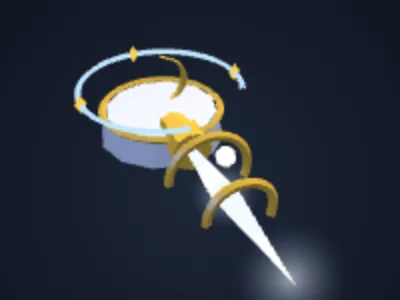
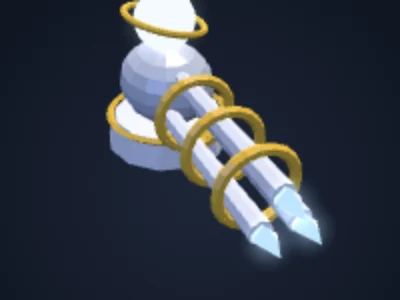
New Moonbeam (the Tide Engine), super impact explosions, punchier super sounds
- Moonbeam: three crystal barrels bound by gold rings that turn, and a full
  moon held above on a gold arm (it pulses, its ring spins). Menu cameras pull
  back for it; wiki gear pictures re-rendered.
- Every super now explodes where it lands (new sim event 'I', looks and sound
  only, mirrored in live matches): on each tank a beam hits and where it ends,
  where the Siege shell lands, around a Static Nova. Each weapon has its own:
  gold shrapnel (Pulse), electric sparks (Twin), fire and a smoke column
  (Siege), a pillar of moonlight (Moonbeam).
- Sounds: a sharp crack over a deep bass drop when a super fires, a heavy boom
  on impact (with a strong haptic); a limiter keeps stacked blasts clean.
- Held for future legendary weapons: the Lunar Railgun, Eclipse Cannon and the
  combined design, in dev/designs/ with renders.

Claude-Session: https://claude.ai/code/session_012NKinCPDFmrTEzMFfEmfiX

Changed region(s): [[0.18, 0.0, 0.84, 1.0]]

diff --git a/dev/designs/legendary-weapons.js b/dev/designs/legendary-weapons.js
@@ -1,0 +1,85 @@
+// LEGENDARY WEAPON DESIGNS ON HOLD (Oct 23, 2026), for future legendary weapons. Not loaded by the game.
+// Built with the game's own model kit (M3: kit, put, bake, meshOf, shapes), in the same units as js/models3d.js
+// weaponKit(): x forward from the turret, y up. To ship one, move its builder into weaponKit() as its own arch,
+// keep `tip` as M.tips, add anims (rings, orbs) the way the Moonbeam does, and give its super an impact (firing()).
+//  - railgun: LUNAR RAILGUN. Twin gold rails, a capacitor bank, a crescent crystal riding between the rails.
+//    Super: a white-hot beam through a row of rings; impact flash, gold blast ring, shards.
+//    Sound idea: a rising electric whine, a sharp crack, a deep bass boom.
+//  - eclipse: ECLIPSE CANNON. Armored breech, a giant eclipse ring at the muzzle (black moon disc, burning corona).
+//    Super: a thick black beam edged in light; impact a dark dome with a blue shockwave.
+//    Sound idea: a low suction hum, a beat of silence, a heavy sub-bass thud.
+//  - combo: ECLIPSE + RAILGUN + TIDE. Eclipse breech and muzzle ring, twin gold rails, three crystal barrels, the moon.
+//  - tide: the TIDE ENGINE, shipped as the Moonbeam (js/models3d.js); kept here for reference.
+// Renders: dev/designs/img/. To render again: load the game page, run this file in it, then moonShot(id,'rest'|'fire',w,h).
+// three Moonbeam prototypes built with the game's own kit, mounted on the real Lunar-skin tank
+(function(){
+const {kit,put,bake,meshOf,shapes}=M3,{B,CY,SP,CO,OC,TO}=shapes,G='#ffcf4a',P='#e6ecf5',PD='#c9d3e2',ICE='#bfe6ff',WH='#f4fbff',DK='#1a1f2b';
+const sym=f=>{f(-1);f(1);};
+function crescent(R,d){const s=new THREE.Shape();s.absarc(0,0,R,-Math.PI*0.45,Math.PI*0.45,false);s.absarc(R*0.38,0,R*0.8,Math.PI*0.37,-Math.PI*0.37,true);const g=new THREE.ExtrudeGeometry(s,{depth:d,bevelEnabled:false,curveSegments:10});g.translate(0,0,-d/2);return g;}
+// A) LUNAR RAILGUN: two massive gold-edged rails, a capacitor block, a crescent crystal riding between the rails
+function railgun(){const k=kit();
+ put(k,CY(0.5,0.56,0.26,12),P,[0,0.13,0],null,null,'shine');put(k,TO(0.53,0.035,4,24),G,[0,0.27,0],[Math.PI/2,0,0],null,'shine');
+ put(k,B(0.9,0.5,0.8),PD,[-0.15,0.5,0],null,null,'shine');for(let i=0;i<4;i++)put(k,B(0.12,0.3,0.06),ICE,[-0.42+i*0.2,0.52,0.41],null,null,'glow');
+ sym(s=>{put(k,B(2.7,0.2,0.14),P,[1.35,0.52,s*0.22],null,null,'shine');put(k,B(2.6,0.04,0.16),G,[1.35,0.64,s*0.22],null,null,'shine');put(k,B(2.5,0.05,0.03),ICE,[1.4,0.52,s*0.145],null,null,'glow');
+  put(k,B(0.35,0.3,0.1),G,[2.75,0.52,s*0.26],[0,s*0.35,0],null,'shine');});
+ for(const x of[0.6,1.3,2.0])put(k,B(0.12,0.3,0.6),PD,[x,0.52,0],null,null,'shine');
+ put(k,crescent(0.26,0.06),ICE,[1.65,0.52,0],[0,Math.PI/2,Math.PI/2],null,'glow');
+ put(k,crescent(0.3,0.06),G,[-0.15,0.92,0],[0,Math.PI/2,0],null,'shine');
+ return {k,tip:[2.95,0.52,0],len:2.95};}
+// B) ECLIPSE CANNON: a heavy armored breech with a giant eclipse ring at the muzzle (a black moon disc with a burning corona)
+function eclipse(){const k=kit();
+ put(k,CY(0.52,0.6,0.3,12),P,[0,0.15,0],null,null,'shine');put(k,TO(0.56,0.04,4,24),G,[0,0.3,0],[Math.PI/2,0,0],null,'shine');
+ put(k,B(1.1,0.62,0.9),PD,[0.05,0.62,0],null,null,'shine');sym(s=>{put(k,B(1.0,0.5,0.12),P,[0.1,0.62,s*0.5],[s*0.12,0,0],null,'shine');put(k,crescent(0.28,0.05),G,[0.05,0.66,s*0.58],[0,0,0],null,'shine');});
+ put(k,CY(0.2,0.24,1.3,14),P,[1.1,0.62,0],[0,0,Math.PI/2],null,'shine');for(let i=0;i<3;i++)put(k,TO(0.25,0.04,6,18),G,[0.75+i*0.3,0.62,0],[0,Math.PI/2,0],null,'shine');
+ put(k,TO(0.62,0.09,8,40),G,[1.85,0.62,0],[0,Math.PI/2,0],null,'shine');put(k,CY(0.56,0.56,0.06,40),DK,[1.88,0.62,0],[0,0,Math.PI/2],null,'shine');
+ put(k,TO(0.68,0.03,6,40),ICE,[1.9,0.62,0],[0,Math.PI/2,0],null,'glow');for(let i=0;i<8;i++){const a=i/8*Math.PI*2;put(k,OC(0.06),WH,[1.9,0.62+Math.cos(a)*0.78,Math.sin(a)*0.78],null,[1,2,1],'glow');}
+ return {k,tip:[1.95,0.62,0],len:2.0};}
+// C) TIDE ENGINE: three long crystal barrels in a triangle, bound by gold rings, and a full moon held above on a gold arm
+function tide(){const k=kit();
+ put(k,CY(0.5,0.58,0.28,12),P,[0,0.14,0],null,null,'shine');put(k,TO(0.54,0.035,4,24),G,[0,0.28,0],[Math.PI/2,0,0],null,'shine');
+ put(k,SP(0.42,14,10),PD,[0,0.6,0],null,[1.25,0.85,1],'shine');
+ for(let i=0;i<3;i++){const a=i/3*Math.PI*2+Math.PI/2,y=0.6+Math.sin(a)*0.18,z=Math.cos(a)*0.18;put(k,CY(0.08,0.1,2.2,8),P,[1.3,y,z],[0,0,Math.PI/2],null,'shine');put(k,OC(0.1),ICE,[2.45,y,z],null,[2.2,1,1],'glow');}
+ for(const x of[0.7,1.35,2.0])put(k,TO(0.32,0.05,6,20),G,[x,0.6,0],[0,Math.PI/2,0],null,'shine');
+ put(k,B(0.1,0.7,0.1),G,[-0.25,1.0,0],[0,0,-0.35],null,'shine');put(k,SP(0.3,16,12),WH,[0.0,1.42,0],null,null,'glow');put(k,TO(0.4,0.03,6,24),G,[0.0,1.42,0],[Math.PI/2.4,0,0],null,'shine');
+ return {k,tip:[2.65,0.6,0],len:2.7};}
+// D) COMBINED: the Eclipse breech and muzzle ring, the Railgun's twin gold rails, the Tide's three crystal barrels and its moon
+function combo(){const k=kit();
+ put(k,CY(0.52,0.6,0.3,12),P,[0,0.15,0],null,null,'shine');put(k,TO(0.56,0.04,4,24),G,[0,0.3,0],[Math.PI/2,0,0],null,'shine');
+ put(k,B(1.0,0.6,0.86),PD,[-0.1,0.62,0],null,null,'shine');for(let i=0;i<4;i++)put(k,B(0.12,0.3,0.06),ICE,[-0.42+i*0.2,0.64,0.44],null,null,'glow');
+ sym(s=>{put(k,crescent(0.28,0.05),G,[-0.1,0.66,s*0.5],null,null,'shine');put(k,B(2.2,0.18,0.12),P,[1.4,0.62,s*0.34],null,null,'shine');put(k,B(2.1,0.04,0.14),G,[1.4,0.73,s*0.34],null,null,'shine');put(k,B(2.0,0.04,0.03),ICE,[1.45,0.62,s*0.27],null,null,'glow');});
+ for(let i=0;i<3;i++){const a=i/3*Math.PI*2+Math.PI/2,y=0.62+Math.sin(a)*0.15,z=Math.cos(a)*0.15;put(k,CY(0.07,0.09,2.0,8),P,[1.35,y,z],[0,0,Math.PI/2],null,'shine');put(k,OC(0.09),ICE,[2.4,y,z],null,[1.8,1,1],'glow');}
+ for(const x of[0.75,1.35,1.95])put(k,TO(0.3,0.05,6,20),G,[x,0.62,0],[0,Math.PI/2,0],null,'shine');
+ put(k,TO(0.6,0.09,8,40),G,[2.55,0.62,0],[0,Math.PI/2,0],null,'shine');put(k,CY(0.5,0.5,0.05,40),DK,[2.58,0.62,0],[0,0,Math.PI/2],null,'shine');
+ put(k,TO(0.66,0.03,6,40),ICE,[2.6,0.62,0],[0,Math.PI/2,0],null,'glow');for(let i=0;i<8;i++){const a=i/8*Math.PI*2;put(k,OC(0.055),WH,[2.6,0.62+Math.cos(a)*0.76,Math.sin(a)*0.76],null,[1,2,1],'glow');}
+ put(k,B(0.1,0.7,0.1),G,[-0.35,1.1,0],[0,0,-0.35],null,'shine');put(k,SP(0.28,16,12),WH,[-0.1,1.5,0],null,null,'glow');put(k,TO(0.38,0.03,6,24),G,[-0.1,1.5,0],[Math.PI/2.4,0,0],null,'shine');
+ return {k,tip:[2.65,0.62,0],len:2.7};}
+const W={railgun,eclipse,tide,combo};
+// the super firing: beam to an impact point, and the impact explosion (each weapon its own)
+function firing(id,tip){const k=kit(),X=7.4,y=tip[1];
+ if(id==='railgun'){put(k,B(X-tip[0],0.08,0.08),WH,[(tip[0]+X)/2,y,0],null,null,'glow');put(k,B(X-tip[0],0.2,0.2),ICE,[(tip[0]+X)/2,y,0],null,null,'glow');
+  for(let i=0;i<5;i++)put(k,TO(0.25,0.02,4,16),ICE,[tip[0]+0.6+i*0.9,y,0],[0,Math.PI/2,0],null,'glow');}
+ if(id==='eclipse'){put(k,CY(0.32,0.38,X-tip[0],16),DK,[(tip[0]+X)/2,y,0],[0,0,Math.PI/2],null,'shine');put(k,CY(0.42,0.46,X-tip[0],16),ICE,[(tip[0]+X)/2+0.02,y,0],[0,0,Math.PI/2],[1,1,0.15],'glow');}
+ if(id==='combo'){put(k,CY(0.3,0.36,X-tip[0],16),DK,[(tip[0]+X)/2,y,0],[0,0,Math.PI/2],null,'shine');for(let i=0;i<3;i++){const a=i/3*Math.PI*2+Math.PI/2;put(k,B(X-tip[0],0.06,0.06),ICE,[(tip[0]+X)/2,y+Math.sin(a)*0.4,Math.cos(a)*0.4],null,null,'glow');}for(let i=0;i<4;i++)put(k,TO(0.45,0.025,4,20),ICE,[tip[0]+0.8+i*1.0,y,0],[0,Math.PI/2,0],null,'glow');}
+ if(id==='tide'){for(let i=0;i<3;i++){const a=i/3*Math.PI*2+Math.PI/2;put(k,B(X-tip[0],0.06,0.06),ICE,[(tip[0]+X)/2,y+Math.sin(a)*0.12,Math.cos(a)*0.12],null,null,'glow');}}
+ // impact: ground blast ring, a core flash, shards thrown out, and (eclipse) a dark dome; (tide) a rising pillar
+ const gy=-0.85;put(k,TO(1.1,0.1,6,40),id==='eclipse'?'#7fa6ff':G,[X,gy+0.05,0],[Math.PI/2,0,0],null,'glow');put(k,TO(1.7,0.05,6,48),WH,[X,gy+0.04,0],[Math.PI/2,0,0],null,'glow');
+ const dk=id==='eclipse'||id==='combo';put(k,SP(dk?0.9:0.7,18,14),dk?DK:WH,[X,gy+0.5,0],null,[1,0.8,1],dk?'shine':'glow');
+ if(dk)put(k,TO(0.95,0.08,8,40),'#9fd8ff',[X,gy+0.5,0],[Math.PI/2,0,0],null,'glow');
+ for(let i=0;i<10;i++){const a=i/10*Math.PI*2;put(k,OC(0.09),i%2?G:ICE,[X+Math.cos(a)*1.3,gy+0.4+(i%3)*0.35,Math.sin(a)*1.3],null,[1,2.4,1],'glow');}
+ if(id==='tide'||id==='combo'){put(k,CY(0.3,0.5,3.2,16),ICE,[X,gy+1.6,0],null,[1,1,1],'glow');put(k,SP(0.4,14,10),WH,[X,gy+3.3,0],null,null,'glow');}
+ return k;}
+window.moonShot=(id,mode,w,h)=>{
+ const A=artR(),sp=mySpec({lunar:true,team:'#e8f4ff',paint:'stock',arch:'moon',wt:2,cls:'vanguard',ct:2}),T=buildTank(sp,A.mats);
+ while(T.tg.children.length)T.tg.remove(T.tg.children[0]);
+ const wp=W[id]();T.tg.add(meshOf(bake(wp.k),null,A.mats));
+ T.hull.rotation.y=0;T.tur.rotation.y=0;
+ const halos=[];
+ if(mode==='fire'){const f=meshOf(bake(firing(id,wp.tip)),null,A.mats);T.tg.add(f);
+  T.g.updateMatrixWorld(true);const v=new THREE.Vector3(7.4,-0.35,0);T.tg.localToWorld(v);halos.push([v.clone(),'#ffffff',6],[v.clone(),'#bfe6ff',9]);
+  const m=new THREE.Vector3(wp.tip[0],wp.tip[1],0);T.tg.localToWorld(m);halos.push([m,'#e8f4ff',3]);}
+ const c=document.createElement('canvas');c.width=w*dpr;c.height=h*dpr;const ctx=c.getContext('2d');ctx.setTransform(dpr,0,0,dpr,0,0);
+ ctx.fillStyle='#0a0e17';ctx.fillRect(0,0,w,h);
+ if(mode==='fire')artShot(ctx,w,h,T.g,{r:4.0,el:0.62,az:1.15,cx:4.1,cy:-0.2},halos);
+ else artShot(ctx,w,h,T.g,{r:1.7,el:0.4,az:0.85,cx:0.8,cy:1.15},halos);
+ return c.toDataURL('image/png');};
+})();

diff --git a/js/render3d.js b/js/render3d.js
@@ -385,6 +385,17 @@ function novaRing(g,R,w,k){const P=g.attributes.position.array,N=48;let o=0;cons
   const a=[x0,0,z0],b=[x1,0,z1],c=[x1+x1/n1*w,0,z1+z1/n1*w],d=[x0+x0/n0*w,0,z0+z0/n0*w];
   for(const v of [a,b,c,a,c,d]){P[o++]=v[0];P[o++]=v[1];P[o++]=v[2];}}
  g.attributes.position.needsUpdate=true;g.computeBoundingSphere();}
+// a super landing: a big fireball, a ground shockwave ring of sparks, and each weapon's own touch
+function impact3(x,z,w){
+ const C=(typeof IMPACT!=='undefined'&&IMPACT[w])||{r:2.4,c:'#ffb35a',c2:'#ffe08a'},lo=R3.q==='low';
+ boom3(x,z,C.r*0.9,C.c);
+ const n=lo?14:30;for(let i=0;i<n;i++){const a=i/n*6.28;emit(PSA,{x,y:0.15,z,vx:Math.cos(a)*C.r*4,vz:Math.sin(a)*C.r*4,vy:0.3,drag:2.5,life:0.45,s0:0.5,s1:0.08,c:C.c2,a:0.9});}
+ once(PSA,x,0.8,z,C.r*4.2,C.c2,1);once(PSA,x,0.5,z,C.r*6,C.c,0.6);
+ if(w==='moon')for(let i=0;i<(lo?10:24);i++)emit(PSA,{x:x+(Math.random()-0.5)*0.8,y:0.3,z:z+(Math.random()-0.5)*0.8,vy:7+Math.random()*5,drag:0.6,life:0.7+Math.random()*0.3,s0:0.9,s1:0.2,c:i%3?'#bfe6ff':'#ffffff',a:0.95});   // a pillar of moonlight
+ else if(w==='siege'&&!lo)for(let i=0;i<10;i++){const a=Math.random()*6.28,s=Math.random()*C.r;emit(PSN,{x:x+Math.cos(a)*s*0.3,y:0.6,z:z+Math.sin(a)*s*0.3,vy:1.6,vx:Math.cos(a)*s*0.4,vz:Math.sin(a)*s*0.4,drag:0.8,life:1.6,s0:0.8,s1:2.2,c:'#2a2b30',a:0.55});}   // a smoke column
+ else if(w==='twin')for(let i=0;i<(lo?8:18);i++){const a=Math.random()*6.28,s=2+Math.random()*5;emit(PSA,{x,y:0.6,z,vx:Math.cos(a)*s,vz:Math.sin(a)*s,vy:2+Math.random()*3,g:6,life:0.35,s0:0.25,s1:0.05,c:'#e2f4ff'});}   // electric sparks
+ else for(let i=0;i<(lo?8:16);i++){const a=Math.random()*6.28,s=3+Math.random()*4;emit(PSA,{x,y:0.5,z,vx:Math.cos(a)*s,vz:Math.sin(a)*s,vy:3+Math.random()*4,g:10,life:0.6,s0:0.3,s1:0.1,c:'#ffd24a'});}   // gold shrapnel
+}
 function boom3(x,z,r,c){
  const n=Math.round((R3.q==='low'?6:14)*Math.min(2.5,r));
  for(let i=0;i<n;i++){const a=Math.random()*6.28,s=(1+Math.random()*2.5)*r;emit(PSA,{x,y:0.4,z,vx:Math.cos(a)*s,vz:Math.sin(a)*s,vy:1+Math.random()*3,g:6,drag:1.5,life:0.5+Math.random()*0.4,s0:0.35,s1:0.05,c:Math.random()<0.5?c:'#ffe08a'});}
@@ -402,6 +413,7 @@ function muzzle(u,arch){
 function ev3D(a){
  if(!use3D()||!RS)return;
  const U=i=>i>=0?units[i]:null;
+ if(a[0]==='I'){impact3(a[1],a[2],a[3]);return;}
  if(a[0]==='k'){const r=U(a[1]);if(!r)return;const o=B3.units.get(r);
   if(o){const w=new THREE.Group(),mat=new THREE.MeshLambertMaterial({color:0x1a1c22,transparent:true,emissive:0x2a0c00});
    o.body.children.forEach(ch=>{if(ch.isGroup)return;const c=ch.clone();c.traverse(x=>{if(x.isMesh)x.material=mat;});w.add(c);});
@@ -473,7 +485,7 @@ function artTank(ctx,w,h,spec,parts,opt){
  T.hull.rotation.y=opt.hd===undefined?0:opt.hd;T.tur.rotation.y=opt.ta||0;
  if(opt.t!==undefined)stepAnims(T.anims,0,opt.t);
  const hal=haloList(T,parts);
- const r=spec.boss?2.2:parts===2?1.25:1.55;
+ const r=(spec.boss?2.2:parts===2?1.25:1.55)*(spec.arch==='moon'&&parts!==1?1.22:1);   // the Moonbeam (Tide Engine) is long and tall: frame it wider
  artShot(ctx,w,h,T.g,{r,el:opt.el===undefined?0.6:opt.el,az:opt.az===undefined?0.95:opt.az,cy:parts===2?0.3:0.35,z:opt.z||1},hal);
 }
 const mySpec=(o)=>{let L=null;try{L=myLoadout();}catch(e){}const lunar=save.skin==='lunar';
@@ -515,5 +527,5 @@ function heroArt(ctx,w,h,t){
  if(!AR||!AR.hero||AR.hero.k!==k){const A=artR();AR.hero={k,T:buildTank(sp,A.mats)};}
  const T=AR.hero.T;T.hull.rotation.y=0.25;T.tur.rotation.y=Math.sin(t*0.55)*0.42;stepAnims(T.anims,0.033,t);
  T.body.position.y=T.meta.bob?T.meta.bob*Math.sin(t*3):0;
- ctx.save();ctx.translate(cx-bw/2,cy-bh*0.62);artShot(ctx,bw,bh,T.g,{r:1.55,el:0.5,az:0.95,cy:0.35},haloList(T,3));ctx.restore();
+ ctx.save();ctx.translate(cx-bw/2,cy-bh*0.62);artShot(ctx,bw,bh,T.g,{r:sp.arch==='moon'?1.85:1.55,el:0.5,az:0.95,cy:sp.arch==='moon'?0.5:0.35},haloList(T,3));ctx.restore();
 }

diff --git a/js/models3d.js b/js/models3d.js
@@ -229,18 +229,19 @@ function weaponKit(arch,tier,P,team,lunar,cls){
  const k=kit(),A=[],C=palette(P,team,cls,lunar),rc=TIERC[tier],M={tips:[],halos:[]},pm=PM(C);
  const wc=WEAPONS[arch]?WEAPONS[arch].c:'#3fd0c9';
  const core=(x,y)=>{put(k,OC(0.11),C.team,[x,y,0],null,[1,1.3,1],'glow');M.halos.push([x,y,0,C.team,0.35]);};
- if(arch==='moon'){   // LEGENDARY Moonbeam: crystal spear in gold crescents, a halo, an orbiting moon
-  put(k,CY(0.44,0.5,0.24,12),'#e6ecf5',[0,0.12,0],null,null,'shine');
-  put(k,TO(0.47,0.03,4,24),GOLD,[0,0.24,0],[Math.PI/2,0,0],null,'shine');
-  put(k,CY(0.12,0.16,0.4,8),GOLD,[0.42,0.2,0],[0,0,Math.PI/2],null,'shine');
-  put(k,OC(0.2),'#f4fbff',[1.15,0.2,0],null,[4.6,0.5,0.5],'glow');
-  for(const [x,R0] of [[0.9,0.3],[1.38,0.24]])sym(s=>put(k,TO(R0,0.035,5,16,Math.PI*0.9),GOLD,[x,0.2,0],[s*0.35,Math.PI/2,0],null,'shine'));
-  put(k,crescentGeo(0.22,0.05),GOLD,[-0.1,0.42,0],[0,Math.PI/2,0],null,'shine');
-  const hr=kit();put(hr,TO(0.64,0.025,4,30,Math.PI*1.65),'#bfe6ff',[0,0,0],[Math.PI/2,0,0],null,'glow');for(let i=0;i<4;i++){const a=i/4*Math.PI*2;put(hr,OC(0.05),GOLD,[Math.cos(a)*0.64,0,Math.sin(a)*0.64],null,[1,1.6,1],'glow');}
-  A.push({k:hr,p:[0,0.42,0],axis:'y',spd:1.8});
-  const mo=kit();put(mo,SP(0.07,8,6),'#ffffff',[0,0.3,0],null,null,'glow');
-  A.push({k:mo,p:[1.15,0.2,0],axis:'x',spd:4,orb:1});
-  M.tips.push([2.05,0.2,0]);M.halos.push([2.0,0.2,0,'#e8f4ff',1.1],[1.15,0.2,0,'#e8f4ff',0.8]);
+ if(arch==='moon'){   // LEGENDARY Moonbeam, the Tide Engine: three crystal barrels bound by gold rings, a full moon held above on a gold arm
+  const P0='#e6ecf5',PD='#c9d3e2',ICE='#bfe6ff',WH='#f4fbff';
+  put(k,CY(0.5,0.58,0.28,12),P0,[0,0.14,0],null,null,'shine');put(k,TO(0.54,0.035,4,24),GOLD,[0,0.28,0],[Math.PI/2,0,0],null,'shine');
+  put(k,SP(0.42,14,10),PD,[0,0.6,0],null,[1.25,0.85,1],'shine');
+  for(let i=0;i<3;i++){const a=i/3*Math.PI*2+Math.PI/2,y=0.6+Math.sin(a)*0.18,z=Math.cos(a)*0.18;
+   put(k,CY(0.08,0.1,1.9,8),P0,[1.15,y,z],[0,0,Math.PI/2],null,'shine');put(k,OC(0.1),ICE,[2.15,y,z],null,[2.2,1,1],'glow');
+   M.tips.push([2.32,y,z]);M.halos.push([2.2,y,z,ICE,0.7]);}
+  put(k,B(0.09,0.5,0.09),GOLD,[-0.18,0.92,0],[0,0,-0.35],null,'shine');
+  // the gold rings turn slowly around the barrels; the moon above pulses and its ring spins
+  for(const x of[0.65,1.2,1.75]){const r=kit();put(r,TO(0.32,0.05,6,20),GOLD,[0,0,0],[0,Math.PI/2,0],null,'shine');for(let q=0;q<3;q++){const a=q/3*Math.PI*2;put(r,OC(0.045),ICE,[0,Math.cos(a)*0.32,Math.sin(a)*0.32],null,null,'glow');}A.push({k:r,p:[x,0.6,0],axis:'x',spd:x===1.2?-1.4:1.4});}
+  const mo=kit();put(mo,SP(0.26,16,12),WH,[0,0,0],null,null,'glow');A.push({k:mo,p:[0,1.2,0],type:'pulse',spd:2.2});
+  const mr=kit();put(mr,TO(0.36,0.03,6,24),GOLD,[0,0,0],[Math.PI/2.4,0,0],null,'shine');A.push({k:mr,p:[0,1.2,0],axis:'y',spd:1.6});
+  M.halos.push([0,1.2,0,'#e8f4ff',1.4]);
   return {k,anims:A,meta:M};
  }
  if(arch==='twin'){

diff --git a/js/fx.js b/js/fx.js
@@ -15,7 +15,10 @@ function audioInit(){
  try{
   const C=window.AudioContext||window.webkitAudioContext;if(!C)return;
   try{if(navigator.audioSession)navigator.audioSession.type='ambient';}catch(e){}   // obey the silent switch, don't stop the player's music
-  AC=new C();master=AC.createGain();master.gain.value=0.5;master.connect(AC.destination);
+  AC=new C();master=AC.createGain();master.gain.value=0.5;
+  // a limiter at the end, so stacked explosions get loud without crackling
+  let out=AC.destination;try{const L=AC.createDynamicsCompressor();L.threshold.value=-10;L.knee.value=6;L.ratio.value=12;L.attack.value=0.003;L.release.value=0.2;L.connect(AC.destination);out=L;}catch(e){}
+  master.connect(out);
  }catch(e){AC=null;}
 }
 function audioResume(){if(!save||save.sound===false)return;audioInit();if(AC&&AC.state==='suspended')AC.resume().catch(()=>{});}
@@ -49,7 +52,9 @@ const SND={
  kill:()=>{burst(0.5,0.24,1400);tone(130,40,0.45,'sine',0.17);tone(660,990,0.12,'triangle',0.05,0.1);},
  die:()=>{burst(0.55,0.24,900);tone(280,60,0.65,'sawtooth',0.08);},
  ready:()=>tone(320,1250,0.35,'sawtooth',0.04),
- super:()=>{burst(0.38,0.2,3200);tone(95,45,0.38,'sine',0.17);},
+ // supers: a sharp crack over a deep bass drop when one fires, a heavy boom where it lands
+ super:()=>{burst(0.08,0.32,7000);tone(62,30,0.55,'sine',0.34);tone(190,48,0.28,'sawtooth',0.1);burst(0.45,0.16,1800,0.05);},
+ impact:()=>{tone(78,26,0.7,'sine',0.42);burst(0.1,0.38,5200);burst(0.75,0.24,1300,0.03);tone(260,55,0.2,'square',0.06);},
  box:()=>{tone(880,880,0.07,'triangle',0.07);tone(1320,1320,0.12,'triangle',0.07,0.07);},
  cap:()=>{tone(523,523,0.1,'triangle',0.07);tone(784,784,0.16,'triangle',0.07,0.09);},
  warn:()=>tone(980,980,0.05,'square',0.025),
@@ -64,7 +69,7 @@ const SND={
  claim:()=>{tone(988,988,0.07,'triangle',0.07);tone(1319,1319,0.14,'triangle',0.07,0.06);},
  crystal:()=>{tone(1568,1568,0.06,'sine',0.06);tone(2093,2093,0.1,'sine',0.05,0.05);},
  buy:()=>[659,880,1175].forEach((f,i)=>tone(f,f,0.12,'triangle',0.07,i*0.07))};
-const SND_GAP={crystal:0.05,shot_pulse:0.07,shot_twin:0.06,shot_siege:0.1,shot_moon:0.07,hit:0.05,crit:0.05,hurt:0.12,warn:0.12,boom:0.08,meteor:0.08,dash:0.1};
+const SND_GAP={impact:0.09,crystal:0.05,shot_pulse:0.07,shot_twin:0.06,shot_siege:0.1,shot_moon:0.07,hit:0.05,crit:0.05,hurt:0.12,warn:0.12,boom:0.08,meteor:0.08,dash:0.1};
 function sfx(n){
  if(!save||save.sound===false||!SND[n])return;
  audioInit();if(!AC||AC.state!=='running')return;
@@ -80,6 +85,7 @@ function fx(name,arg){
   case 'die':haptic('n','error');sfx('die');break;
   case 'boom':sfx('boom');break;
   case 'super':haptic('i','rigid');sfx('super');break;
+  case 'impact':haptic('i','heavy');sfx('impact');break;
   case 'ready':haptic('i','light');sfx('ready');break;
   case 'box':haptic('i','soft');sfx('box');break;
   case 'crystal':haptic('i','soft');sfx('crystal');break;

diff --git a/index.html b/index.html
@@ -19,7 +19,7 @@
 <script>
 // Auto-update: phones and GitHub's CDN can keep an old copy for ~10 min. version.json is fetched fresh;
 // if it's newer than this page, reload with ?v=<new> (a URL the cache has never seen). Telegram data in the #hash is kept.
-window.BUILD='20261023210528';
+window.BUILD='20261024002752';
 fetch('version.json?t='+Date.now(),{cache:'no-store'}).then(r=>r.json()).then(j=>{
  const q=new URLSearchParams(location.search);
  if(j&&j.v&&j.v!==window.BUILD&&q.get('v')!==j.v){q.set('v',j.v);location.replace(location.pathname+'?'+q.toString()+location.hash);}
@@ -30,7 +30,7 @@ fetch('version.json?t='+Date.now(),{cache:'no-store'}).then(r=>r.json()).then(j=
 <link rel="preconnect" href="https://warmachines-a6034-default-rtdb.firebaseio.com">
 <link rel="preload" href="fonts/chakra-petch-700.woff" as="font" type="font/woff" crossorigin>
 <link rel="preload" href="fonts/chakra-petch-600.woff" as="font" type="font/woff" crossorigin>
-<link rel="stylesheet" href="css/app.css?v=20261023210528">
+<link rel="stylesheet" href="css/app.css?v=20261024002752">
 <link rel="icon" type="image/png" sizes="32x32" href="favicon-32.png">
 <link rel="icon" type="image/png" sizes="512x512" href="icon.png">
 <link rel="apple-touch-icon" href="icon-180.png">
@@ -57,18 +57,18 @@ fetch('version.json?t='+Date.now(),{cache:'no-store'}).then(r=>r.json()).then(j=
 <div id="layer"></div>
 <div class="toast" id="toast" role="status" aria-live="polite"></div>
 <div id="sab"></div>
-<script src="js/rules.js?v=20261023210528"></script>
-<script src="js/core.js?v=20261023210528"></script>
-<script src="js/net.js?v=20261023210528"></script>
-<script src="js/game.js?v=20261023210528"></script>
-<script src="js/match.js?v=20261023210528"></script>
-<script src="js/pvp.js?v=20261023210528"></script>
-<script src="js/render.js?v=20261023210528"></script>
-<script src="js/models3d.js?v=20261023210528"></script>
-<script src="js/proof.js?v=20261023210528"></script>
-<script src="js/render3d.js?v=20261023210528"></script>
-<script src="js/fx.js?v=20261023210528"></script>
-<script src="js/ui.js?v=20261023210528"></script>
-<script src="js/main.js?v=20261023210528"></script>
+<script src="js/rules.js?v=20261024002752"></script>
+<script src="js/core.js?v=20261024002752"></script>
+<script src="js/net.js?v=20261024002752"></script>
+<script src="js/game.js?v=20261024002752"></script>
+<script src="js/match.js?v=20261024002752"></script>
+<script src="js/pvp.js?v=20261024002752"></script>
+<script src="js/render.js?v=20261024002752"></script>
+<script src="js/models3d.js?v=20261024002752"></script>
+<script src="js/proof.js?v=20261024002752"></script>
+<script src="js/render3d.js?v=20261024002752"></script>
+<script src="js/fx.js?v=20261024002752"></script>
+<script src="js/ui.js?v=20261024002752"></script>
+<script src="js/main.js?v=20261024002752"></script>
 </body>
 </html>

diff --git a/js/match.js b/js/match.js
@@ -197,6 +197,8 @@ function dmgNum(q,t,dmg,isCrit){
  q.tg=t;q.v=dmg;q.crit=isCrit;q.txt=(isCrit?'CRIT ':'')+Math.round(dmg);nums.push(q);
 }
 const HIT_TXT=[null,{txt:'SUPER',t:0.9,z:2,c:'#ff4d4d'},{txt:'STORM',t:0.7,z:0.8,c:'#c79bff'},{txt:'METEOR',t:0.9,z:1.6,c:'#ff8a3d'}];
+// super impacts, per weapon: blast size and colors (match.js 2D overlay; render3d.js adds the 3D explosion)
+const IMPACT={pulse:{r:2.2,c:'#ffb35a',c2:'#ffe08a'},twin:{r:2.6,c:'#7fd4ff',c2:'#e2f4ff'},siege:{r:3.0,c:'#ff7a2f',c2:'#ffd24a'},moon:{r:2.8,c:'#bfe6ff',c2:'#ffffff'}};
 const evColor=c=>typeof c==='number'?tcol(c):c;   // a team number means that team's color
 const sndF=(k,a)=>{if(typeof fx==='function')fx(k,a);};
 function onSimEv(a){
@@ -222,6 +224,9 @@ function onSimEv(a){
   case 'B':blasts.push({x:a[1],y:a[2],r:a[3],t:a[4],t0:a[4],c:a[5]});return;
   case 'M':beams.push({ax:a[1],ay:a[2],bx:a[3],by:a[4],t:0.3,c:tcol(a[5]),w:a[6]});return;
   case 'V':novas.push({x:a[1],y:a[2],r:a[3],t:0.45,t0:0.45,c:tcol(a[4])});return;
+  case 'I':{const C=IMPACT[a[3]]||IMPACT.pulse,x=a[1],y=a[2];   // a super landing: an explosion, a shake and the impact sound
+   blasts.push({x,y,r:C.r,t:0.55,t0:0.55,c:C.c});blasts.push({x,y,r:C.r*0.55,t:0.35,t0:0.35,c:C.c2});
+   shake(a[4]===(me?me.team:0)?7:10,0.4);sndF('impact',a[3]);return;}
   case 'S':shake(a[1],a[2]);return;
   case 'z':if(a[1]==='cap'){if(a[2]===0){pop(a[3],a[4],'ZONE CAPTURED!',TC[0]);sndF('cap');}else pop(a[3],a[4],'ENEMY TOOK THE ZONE',TC[1]);}
    else pop(a[3],a[4],a[2]===0?'ZONE LOST':'ZONE NEUTRAL',a[2]===0?'#ff9d9d':'#c9d6e3');

diff --git a/js/game.js b/js/game.js
@@ -485,8 +485,10 @@ function fireSuper(r,S){
    if(along>0&&along<=S.len&&side<S.w){
     hurt(e,S.dmg);hit=true;
     ev('B',e.x,e.y,1.4,0.25,'#ffd24a');   // impact flare
+    ev('I',e.x,e.y,r.sup.w,r.team);   // super impact: an explosion where it lands (looks and sound only)
    }
   }
+  {const ex=Math.max(1,Math.min(W-1,r.x+Math.cos(ang)*S.len)),ey=Math.max(1,Math.min(H-1,r.y+Math.sin(ang)*S.len));ev('I',ex,ey,r.sup.w,r.team);}   // and where the beam ends
   if(!hit)ev('n',r.x+Math.cos(ang)*Math.min(S.len,6),r.y+Math.sin(ang)*Math.min(S.len,6),'MISSED','#c0cad4',1.2);
  }else if(S.kind==='shell'){
   shells.push({id:++bid,x:r.x+Math.cos(r.sup.ang)*1.2,y:r.y+Math.sin(r.sup.ang)*1.2,
@@ -494,7 +496,7 @@ function fireSuper(r,S){
    dmg:S.dmg,r:S.r,life:S.range/S.spd,owner:r});
   ev('S',4,0.25);
  }else{
-  ev('V',r.x,r.y,S.r,r.team);
+  ev('V',r.x,r.y,S.r,r.team);ev('I',r.x,r.y,r.sup.w,r.team);
   hitCratesNear(r.x,r.y,S.r,S.dmg*0.6);
   ev('S',6,0.35);
   let hit=false;
@@ -508,6 +510,7 @@ function fireSuper(r,S){
 function explode(s){
  s.dead=true;
  const r=s.owner;
+ ev('I',s.x,s.y,'siege',r?r.team:0);
  ev('B',s.x,s.y,s.r,0.5,'#ff9d45');
  hitCratesNear(s.x,s.y,s.r,s.dmg);
  ev('B',s.x,s.y,s.r*0.65,0.35,'#ffd24a');

diff --git a/js/pvp.js b/js/pvp.js
@@ -217,7 +217,7 @@ function pvpApply(rt){
  if(s.se){const w=pvSwap([s.se[0],s.se[1]]);series={w,round:s.se[2]};}
 }
 // events from the server, turned to your side, then drawn by the same code as AI matches (match.js onSimEv)
-const EV_POS={n:[1],p:[1],B:[1],M:[1,3],V:[1],z:[3],g:[3],X:[2],w:[1],m:[1],b:[3]},EV_VEC={b:[5]},EV_TEAM={M:5,V:4,z:2,c:1},EV_KEEP={k:1,X:1,F:1,J:1,T:1,z:1,c:1};
+const EV_POS={n:[1],p:[1],B:[1],I:[1],M:[1,3],V:[1],z:[3],g:[3],X:[2],w:[1],m:[1],b:[3]},EV_VEC={b:[5]},EV_TEAM={I:4,M:5,V:4,z:2,c:1},EV_KEEP={k:1,X:1,F:1,J:1,T:1,z:1,c:1};
 function pvpEv(e){
  const a=e.slice(1),T=a[0];
  for(const i of (EV_POS[T]||[])){a[i]=pvX(a[i]);a[i+1]=pvY(a[i+1]);}

diff --git a/dev/README.md b/dev/README.md
@@ -113,3 +113,7 @@ Every point and every piece of gear a Telegram pilot has lives in `eco/<pid>` an
 - **Loadout checks.** Only gear the pilot owns on the server's record, with its recorded roll, upgrade and core levels (`ecoLoadout`).
 - **Free plan capacity.** About 93 Durable Object requests per player per match (WebSocket messages count 20 to 1) and ~30 GB-s per match: roughly 400 live matches a day. Past that, joins fail and phones fall back to AI matches.
 - **3D.** `render.js` is still the only file that draws a battle. A 3D renderer can replace `drawBattle()` without touching menus, the sim or the netcode.
+
+## Designs on hold
+
+`dev/designs/legendary-weapons.js` keeps three legendary weapon designs for later updates (Lunar Railgun, Eclipse Cannon, and the Eclipse + Railgun + Tide combination), built with the game's model kit, with their super impacts and sound ideas. Renders are in `dev/designs/img/`. The Tide Engine design shipped as the Moonbeam.
